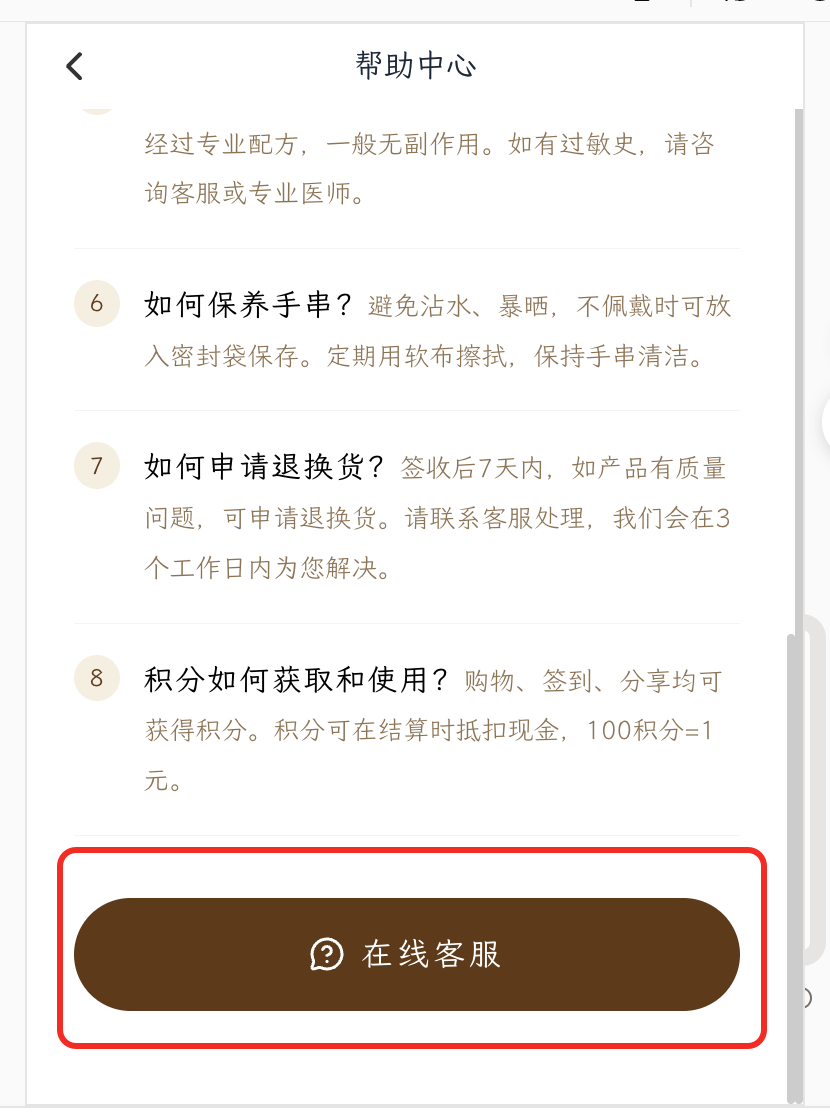
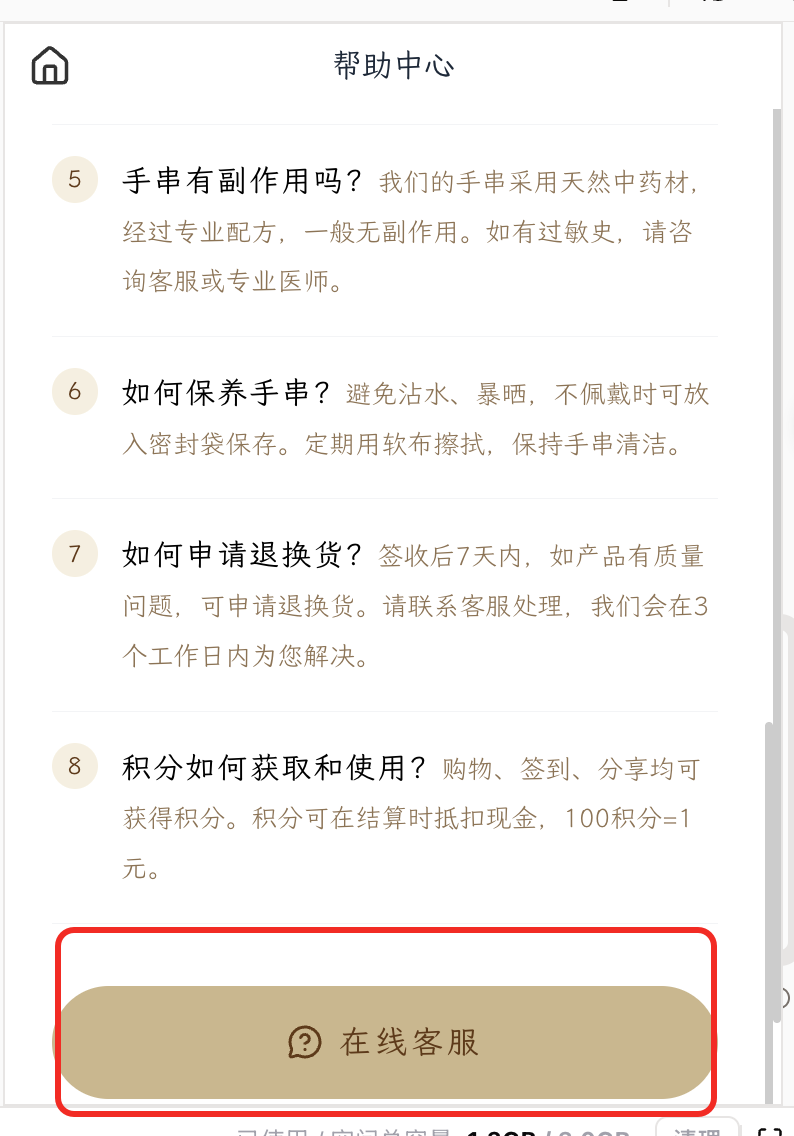
style: 调整按钮颜色为更浅的清新淡雅色调
- 将按钮背景色从 #C9B78F 调整为 #EBE3D5（更浅的米色）
- 保持深棕色文字 #5D3A1A 不变
- 更新设计指南中的按钮样式规范

颜色对比：
- 修改前: #C9B78F（浅卡其）
- 修改后: #EBE3D5（清新淡雅米色）

修改文件：
- src/pages/profile/orders.tsx
- src/pages/order/confirm.tsx
- src/pages/product/detail.tsx
- src/pages/cart/index.tsx
- src/pages/help/index.tsx
- src/pages/search/index.tsx
- src/pages/coupon/index.tsx
- src/pages/coupon/list.tsx
- src/pages/order/list.tsx
- src/pages/index/index.tsx
- src/pages/profile/edit.tsx
- src/pages/customize/design.tsx
- src/pages/address/list.tsx
- src/pages/address/edit.tsx
- src/pages/test/index.tsx
- src/pages/test/result.tsx
- design_guidelines.md

diff --git a/src/pages/customize/design.tsx b/src/pages/customize/design.tsx
@@ -229,7 +229,7 @@ const CustomDesignPage: FC = () => {
           {isSelected && (
             <View 
               className="w-6 h-6 rounded-full flex items-center justify-center"
-              style={{ backgroundColor: '#C9B78F' }}
+              style={{ backgroundColor: '#EBE3D5' }}
             >
               <Check size={14} color="#fff" />
             </View>
@@ -280,7 +280,7 @@ const CustomDesignPage: FC = () => {
           {isSelected && (
             <View 
               className="w-6 h-6 rounded-full flex items-center justify-center"
-              style={{ backgroundColor: '#C9B78F' }}
+              style={{ backgroundColor: '#EBE3D5' }}
             >
               <Check size={14} color="#fff" />
             </View>
@@ -580,7 +580,7 @@ const CustomDesignPage: FC = () => {
         {currentStep < 6 ? (
           <View
             className="flex-1 py-3 rounded-full flex items-center justify-center"
-            style={{ backgroundColor: '#C9B78F' }}
+            style={{ backgroundColor: '#EBE3D5' }}
             onClick={handleNextStep}
           >
             <Text 
@@ -593,7 +593,7 @@ const CustomDesignPage: FC = () => {
         ) : (
           <View
             className="flex-1 py-3 rounded-full flex items-center justify-center"
-            style={{ backgroundColor: '#C9B78F' }}
+            style={{ backgroundColor: '#EBE3D5' }}
             onClick={handleAddToCart}
           >
             <Text 

diff --git a/src/pages/cart/index.tsx b/src/pages/cart/index.tsx
@@ -285,7 +285,7 @@ const CartPage: FC = () => {
           
           <View
             className="mt-8 px-8 py-3 rounded-full"
-            style={{ backgroundColor: '#C9B78F' }}
+            style={{ backgroundColor: '#EBE3D5' }}
             onClick={() => Taro.switchTab({ url: '/pages/customize/index' })}
           >
             <Text 
@@ -346,7 +346,7 @@ const CartPage: FC = () => {
                   {item.isCustom && (
                     <View 
                       className="px-2 py-1 rounded ml-2"
-                      style={{ backgroundColor: '#C9B78F' }}
+                      style={{ backgroundColor: '#EBE3D5' }}
                     >
                       <Text 
                         className="text-white"
@@ -515,7 +515,7 @@ const CartPage: FC = () => {
             ) : (
               <View
                 className="px-6 py-2 rounded-full"
-                style={{ backgroundColor: totalCount > 0 ? '#C9B78F' : '#D4D4D4' }}
+                style={{ backgroundColor: totalCount > 0 ? '#EBE3D5' : '#D4D4D4' }}
                 onClick={handleCheckout}
               >
                 <Text 

diff --git a/src/pages/coupon/index.tsx b/src/pages/coupon/index.tsx
@@ -158,7 +158,7 @@ const CouponPage: FC = () => {
                     <View className="flex items-center justify-between">
                       <Text className="text-xs text-[#8B7355]">{formatDate(coupon.startTime)} - {formatDate(coupon.endTime)}</Text>
                       <View
-                        className="px-3 py-1 bg-[#C9B78F] rounded-full"
+                        className="px-3 py-1 bg-[#EBE3D5] rounded-full"
                         onClick={() => handleReceiveCoupon(coupon.id)}
                       >
                         <Text className="text-xs text-[#5D3A1A]">领取</Text>
@@ -186,7 +186,7 @@ const CouponPage: FC = () => {
               </Text>
               {activeTab === 'available' && (
                 <View
-                  className="mt-4 px-4 py-2 bg-[#C9B78F] rounded-full"
+                  className="mt-4 px-4 py-2 bg-[#EBE3D5] rounded-full"
                   onClick={() => Taro.switchTab({ url: '/pages/index/index' })}
                 >
                   <Text className="text-sm text-[#5D3A1A]">去逛逛</Text>

diff --git a/src/pages/coupon/list.tsx b/src/pages/coupon/list.tsx
@@ -42,7 +42,7 @@ const CouponListPage: FC = () => {
   return (
     <ScrollView scrollY className="h-screen bg-white">
       {/* 优惠券统计 */}
-      <View className="px-6 py-6" style={{ backgroundColor: '#C9B78F' }}>
+      <View className="px-6 py-6" style={{ backgroundColor: '#EBE3D5' }}>
         <Text 
           className="text-white opacity-80"
           style={{ fontSize: '14px', fontWeight: 300 }}
@@ -115,7 +115,7 @@ const CouponListPage: FC = () => {
               {coupon.status === 'valid' && (
                 <View
                   className="px-4 py-2 rounded-full"
-                  style={{ backgroundColor: '#C9B78F' }}
+                  style={{ backgroundColor: '#EBE3D5' }}
                   onClick={() => handleUseCoupon(coupon.id)}
                 >
                   <Text 

diff --git a/src/pages/profile/orders.tsx b/src/pages/profile/orders.tsx
@@ -299,7 +299,7 @@ const OrdersPage: FC = () => {
                     <View className="flex items-center justify-end p-4 border-t border-[#E5DDD3] gap-3">
                       {order.status === 'pending' && (
                         <View
-                          className="bg-[#C9B78F] rounded-full px-6 py-2"
+                          className="bg-[#EBE3D5] rounded-full px-6 py-2"
                           onClick={(e) => {
                             e.stopPropagation()
                             handlePay(order.id)

diff --git a/src/pages/product/detail.tsx b/src/pages/product/detail.tsx
@@ -386,7 +386,7 @@ const ProductDetailPage: FC = () => {
             <Text className="text-[#5D3A1A] text-sm font-medium">加入购物车</Text>
           </View>
           <View
-            className="flex-1 bg-[#C9B78F] rounded-full py-3 flex items-center justify-center"
+            className="flex-1 bg-[#EBE3D5] rounded-full py-3 flex items-center justify-center"
             onClick={handleBuyNow}
           >
             <Text className="text-[#5D3A1A] text-sm font-medium">立即购买</Text>

diff --git a/src/pages/order/confirm.tsx b/src/pages/order/confirm.tsx
@@ -560,7 +560,7 @@ const OrderConfirmPage: FC = () => {
           <Text className="text-2xl font-bold text-[#8B2500]">¥{totalPrice}</Text>
         </View>
         <View
-          className="bg-[#C9B78F] rounded-full px-8 py-3"
+          className="bg-[#EBE3D5] rounded-full px-8 py-3"
           onClick={handleSubmit}
         >
           <Text className="text-[#5D3A1A] text-base font-medium">提交订单</Text>

diff --git a/src/pages/index/index.tsx b/src/pages/index/index.tsx
@@ -99,7 +99,7 @@ const IndexPage: FC = () => {
         {/* 主要入口 - 体质测试 */}
         <View
           className="flex items-center justify-center py-3 rounded-full mb-5"
-          style={{ backgroundColor: '#C9B78F' }}
+          style={{ backgroundColor: '#EBE3D5' }}
           onClick={handleTestClick}
         >
           <Sparkles size={16} color="#5D3A1A" style={{ marginRight: 6 }} />

diff --git a/src/pages/order/list.tsx b/src/pages/order/list.tsx
@@ -248,7 +248,7 @@ const OrdersPage: FC = () => {
                 {order.status === 'pending' && (
                   <View
                     className="px-5 py-2 rounded-full"
-                    style={{ backgroundColor: '#C9B78F' }}
+                    style={{ backgroundColor: '#EBE3D5' }}
                     onClick={() => handlePayClick()}
                   >
                     <Text 

diff --git a/src/pages/help/index.tsx b/src/pages/help/index.tsx
@@ -182,7 +182,7 @@ const HelpPage: FC = () => {
       <View className="px-6 py-4">
         <View
           className="flex items-center justify-center py-4 rounded-full"
-          style={{ backgroundColor: '#C9B78F' }}
+          style={{ backgroundColor: '#EBE3D5' }}
         >
           <MessageCircleQuestionMark size={18} color="#5D3A1A" style={{ marginRight: 8 }} />
           <Text 

diff --git a/src/pages/test/index.tsx b/src/pages/test/index.tsx
@@ -250,7 +250,7 @@ const TestPage: FC = () => {
         <View className="w-full space-y-3">
           <View
             className="w-full rounded-full py-4 flex items-center justify-center"
-            style={{ backgroundColor: '#C9B78F' }}
+            style={{ backgroundColor: '#EBE3D5' }}
             onClick={handleViewResult}
           >
             <Text 

diff --git a/src/pages/test/result.tsx b/src/pages/test/result.tsx
@@ -335,7 +335,7 @@ const ResultPage: FC = () => {
         <View className="flex gap-3">
           <View
             className="flex-1 rounded-full py-4 flex items-center justify-center"
-            style={{ backgroundColor: '#C9B78F' }}
+            style={{ backgroundColor: '#EBE3D5' }}
             onClick={handleCustomize}
           >
             <Text 
